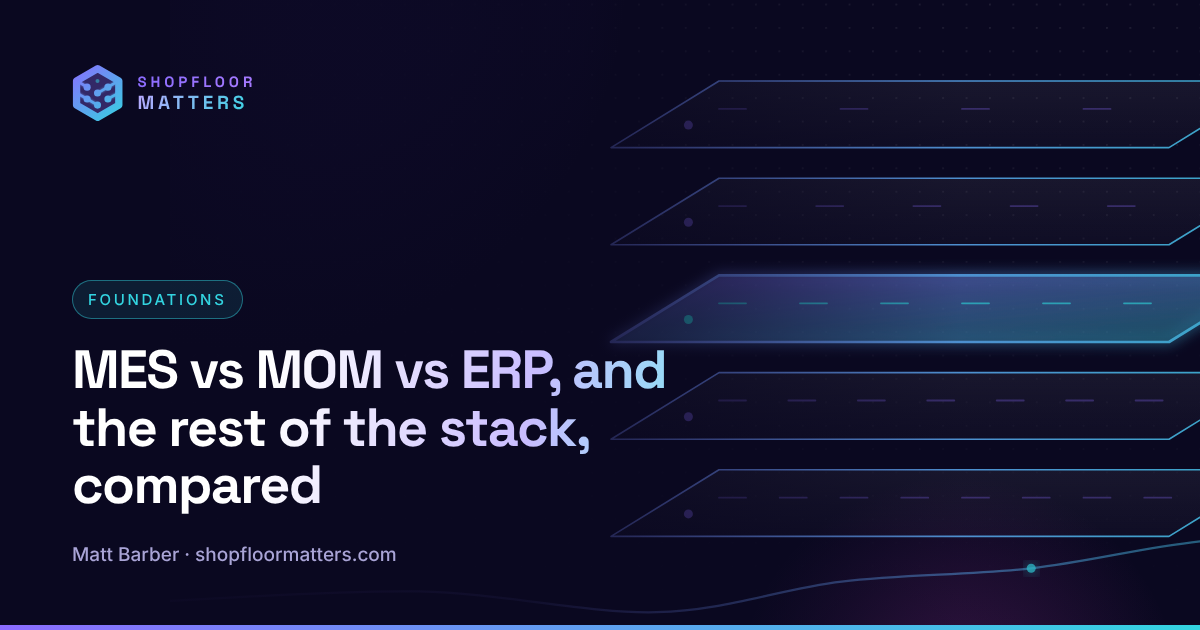
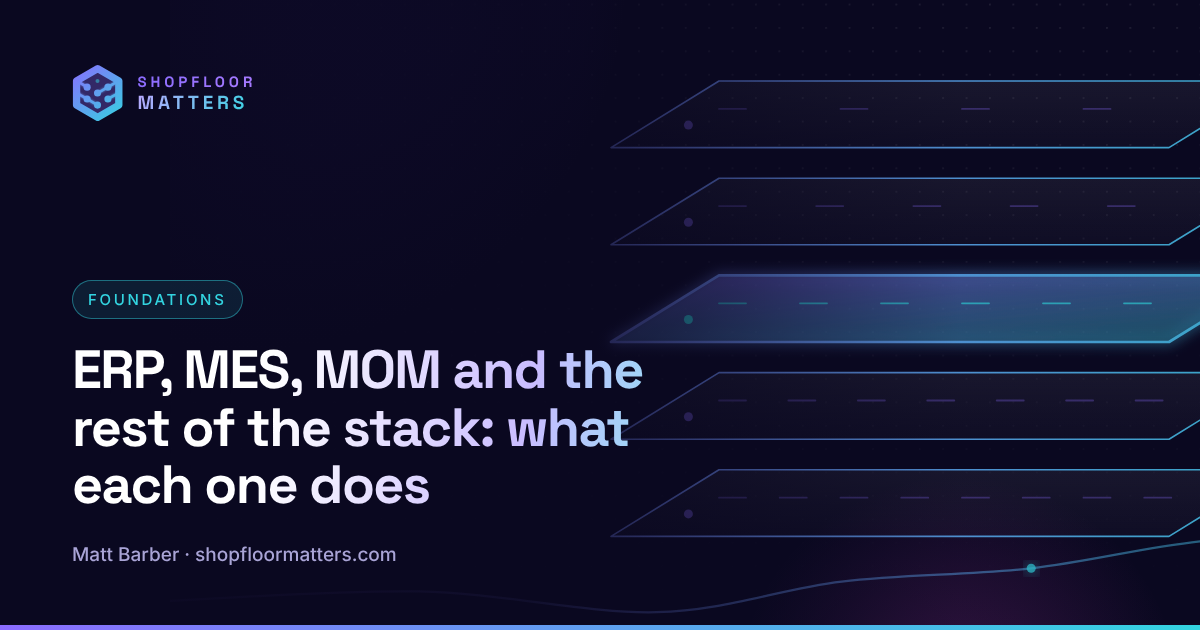
Tighten vs series to genuine, searchable comparisons
Claude-Session: https://claude.ai/code/session_01Y4SNSUs71veJ37BenGhXFE

Changed region(s): [[0.0617, 0.5429, 0.555, 0.8143]]

diff --git a/content/posts/ai-ml-genai-on-the-shopfloor.md b/content/posts/ai-ml-genai-on-the-shopfloor.md
@@ -1,6 +1,6 @@
 ---
-title: "AI vs ML vs GenAI on the shopfloor: what each one actually does"
-short: "AI vs ML vs GenAI"
+title: "AI, ML and GenAI on the shopfloor: what each one actually does"
+short: "AI, ML and GenAI explained"
 description: "AI, machine learning and generative AI get used interchangeably. They shouldn't be. What each one is, where it earns its keep in a factory, and what it needs."
 published: 2026-05-21
 category: thought-leadership

diff --git a/content/posts/mes-mom-erp-compared.md b/content/posts/mes-mom-erp-compared.md
@@ -1,6 +1,6 @@
 ---
-title: "MES vs MOM vs ERP, and the rest of the stack, compared"
-short: "MES vs MOM vs ERP compared"
+title: "ERP, MES, MOM and the rest of the stack: what each one does"
+short: "The manufacturing systems stack"
 description: "ERP, MES, MOM, APS, WMS, QMS, LIMS, EAM, PLM, SCADA and IIoT side by side. What each one does, who uses it, what data it owns, and how to tell whether you need it."
 published: 2026-10-15
 category: education

diff --git a/content/posts/mrp-vs-mes.md b/content/posts/mrp-vs-mes.md
@@ -1,5 +1,5 @@
 ---
-title: "MRP vs MES: planning what to make vs running how it's made"
+title: "MRP vs MES: how they differ, and where ERP fits"
 short: "MRP vs MES"
 description: "MRP works out what to make and buy, and when. MES/MOM runs and records the work on the shopfloor. How they differ, how data flows between them, and why most manufacturers need both."
 published: 2026-10-23
